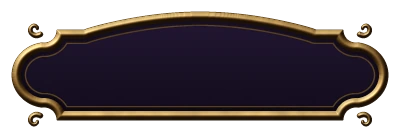
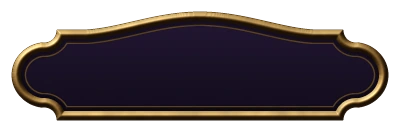
KESTREL: the portrait's nameplate arches without a kink, and an empty seed plate stays unlit
The arched plate loses the curls that floated off its notches and its
arch now springs smoothly from the straight top. The lead paragraph keeps
the page's line spacing under its raised initial. With no expedition the
seed's cartouche is dulled rather than shining round a dash.

diff --git a/game/src/ui/settings.js b/game/src/ui/settings.js
@@ -189,7 +189,7 @@ export async function openSettings(ctx = {}) {
     `<div class="mm-set__label"><span>Current expedition</span>` +
     `<span class="mm-set__hint">A seed reproduces a run exactly: the same rooms, rewards and shop stock.</span></div>` +
     `<i class="kit-leader mm-set__lead" aria-hidden="true"></i>` +
-    `<output class="mm-set__seed kit-enamel kit-enamel--dark"><b class="kit-enamel__value">${escape_(curSeed)}</b></output>`;
+    `<output class="mm-set__seed kit-enamel kit-enamel--dark${rawSeed == null ? ' is-empty' : ''}"><b class="kit-enamel__value">${escape_(curSeed)}</b></output>`;
   seedFs.appendChild(cur);
 
   const entry = document.createElement('div');

diff --git a/game/src/ui/settings.css b/game/src/ui/settings.css
@@ -271,6 +271,8 @@
   user-select: text;
 }
 .mm-set__seed .kit-enamel__value { font-size: calc(var(--read-h) * .5); letter-spacing: .08em; }
+/* no expedition, no seed: the plate unlit, so an empty value never shines */
+.mm-set__seed.kit-enamel.is-empty { filter: drop-shadow(0 3px 4px rgba(0, 0, 0, .75)) saturate(.45) brightness(.72); }
 .mm-set__text.kit-field {
   --field-h: calc(var(--read-h) + 4px);
   justify-self: end;

diff --git a/game/src/scenes/tutorial.css b/game/src/scenes/tutorial.css
@@ -216,7 +216,6 @@
    the #kit-engrave filter — standing on the first line's baseline and rising
    two lines tall above it, so it stays a letter of its word ("Orbit") with no
    box and no gap round it. */
-.tut-line--lead { line-height: 1.3; }
 .tut-initial {
   display: inline-block;
   font-size: 2.5em; line-height: .86;

diff --git a/tools/prep_ui_house.py b/tools/prep_ui_house.py
@@ -259,10 +259,10 @@ def bookmark(W=60, H=480, ss=4):
 def plate_arch(W=400, H=132, ss=4):
     """A portrait's nameplate, as a 9-slice (slices 40 84 22 84): a gilt rim
     round aubergine enamel. Its ends are the Companion tiles' ogee brackets —
-    a notch at each corner, the end bowing out between them, a small curl
-    hooked on each notch — and its top rises in a low arch between them. The
-    arch lives in the top slice and the ends in theirs, so stretching the plate
-    widens the arch and never bends a scroll."""
+    a notch at each corner and the end bowing out between them — and its top
+    swells into a low arch between them, springing without a kink. The arch
+    lives in the top slice and the ends in theirs, so stretching the plate
+    widens the arch and never bends an end."""
     rng = np.random.default_rng(4404)
     NW, NH = W * ss, H * ss
     yy, xx = (np.mgrid[0:NH, 0:NW].astype(np.float32) + 0.5) / ss
@@ -274,7 +274,7 @@ def plate_arch(W=400, H=132, ss=4):
     ymid = (yt + yb) / 2
     # the arch: a cosine swell between xa0 and xa1
     u = np.clip((xx - xa0) / (xa1 - xa0), 0, 1)
-    top = np.where((xx > xa0) & (xx < xa1), yt - (yt - crown) * np.sin(u * math.pi) ** 0.85, yt)
+    top = yt - (yt - crown) * np.clip(np.sin(u * math.pi), 0, 1) ** 1.6
     shape = (xx >= xe0) & (xx <= xe1) & (yy >= top) & (yy <= yb)
     # the ends: a bow out to the side between two concave corner notches
     for side, xe in ((-1, xe0), (1, xe1)):
@@ -282,22 +282,14 @@ def plate_arch(W=400, H=132, ss=4):
         shape |= bow
         for cy in (yt, yb):
             shape &= ~disc(xx, yy, xe + side * 2.0, cy, 13.0)
-    hooks = np.zeros_like(shape)
-    for side, xe in ((-1, xe0), (1, xe1)):
-        for sy, cy in ((-1, yt), (1, yb)):
-            a0 = math.atan2(sy * 1.0, side * 1.0)
-            pts = P.volute(xe + side * 11.0, cy + sy * 1.0, 7.5, 2.4, a0 + math.pi, 0.85 * side * sy, 40)
-            hooks |= P.stroke_mask(W, H, [(pts, 4.6, 2.2)], ss) > 0.5
-    solid = shape | hooks
+    solid = shape
     d = ndimage.distance_transform_edt(shape) / ss
     rim = 9.0
     field = shape & (d > rim)
     bev = np.clip(d / rim, 0, 1)
     h_rim = np.where(shape, np.where(d < rim, np.sin(bev * math.pi) ** 0.8 * 5.0 + 1.5, 0.6), 0)
     line = shape & (np.abs(d - (rim + 4.5)) < 0.7)
-    hd = ndimage.distance_transform_edt(hooks) / ss
-    h_hook = np.where(hooks, np.sqrt(np.clip(hd / 2.2, 0, 1)) * 3.5 + 2.5, 0)
-    hgt = np.maximum(h_rim, h_hook)
+    hgt = h_rim
     hgt = ndimage.gaussian_filter(hgt * ss, ss * 0.5)
     n = normals(hgt, 0.8)
     metal = brass(n, wear=noise((NH, NW), rng, ss * 3), spec_amt=0.6, lift=-0.1)
